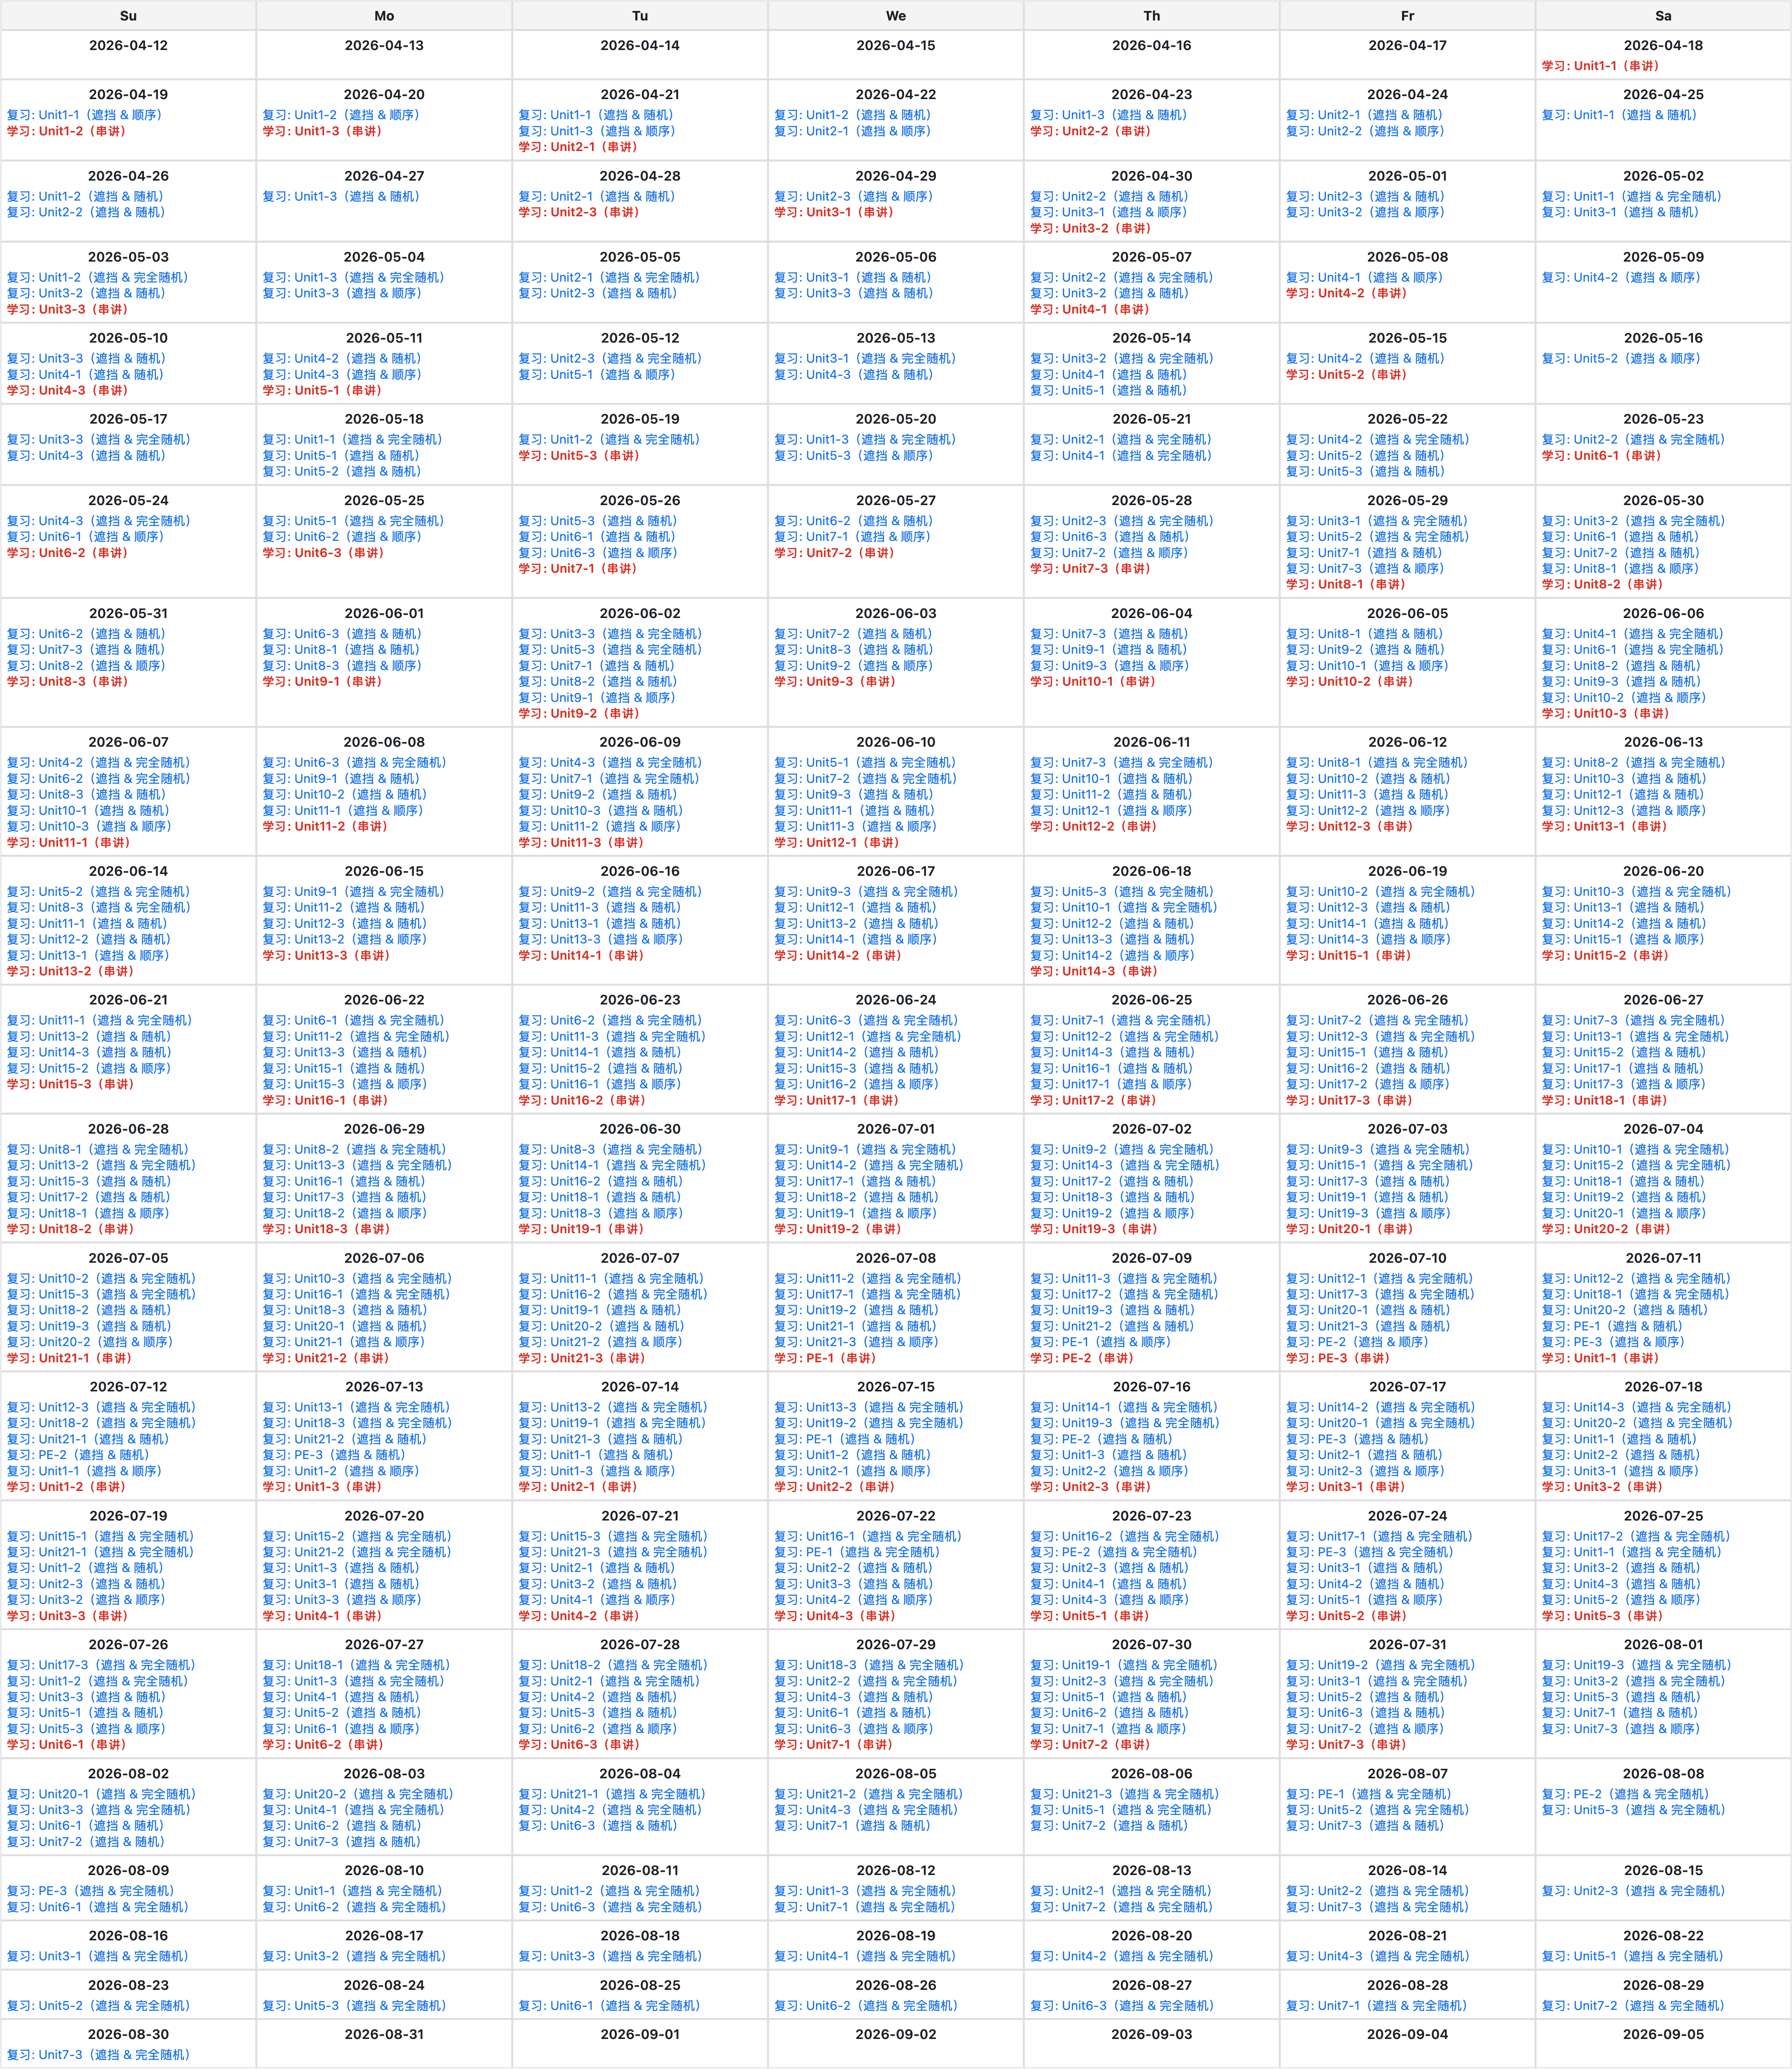
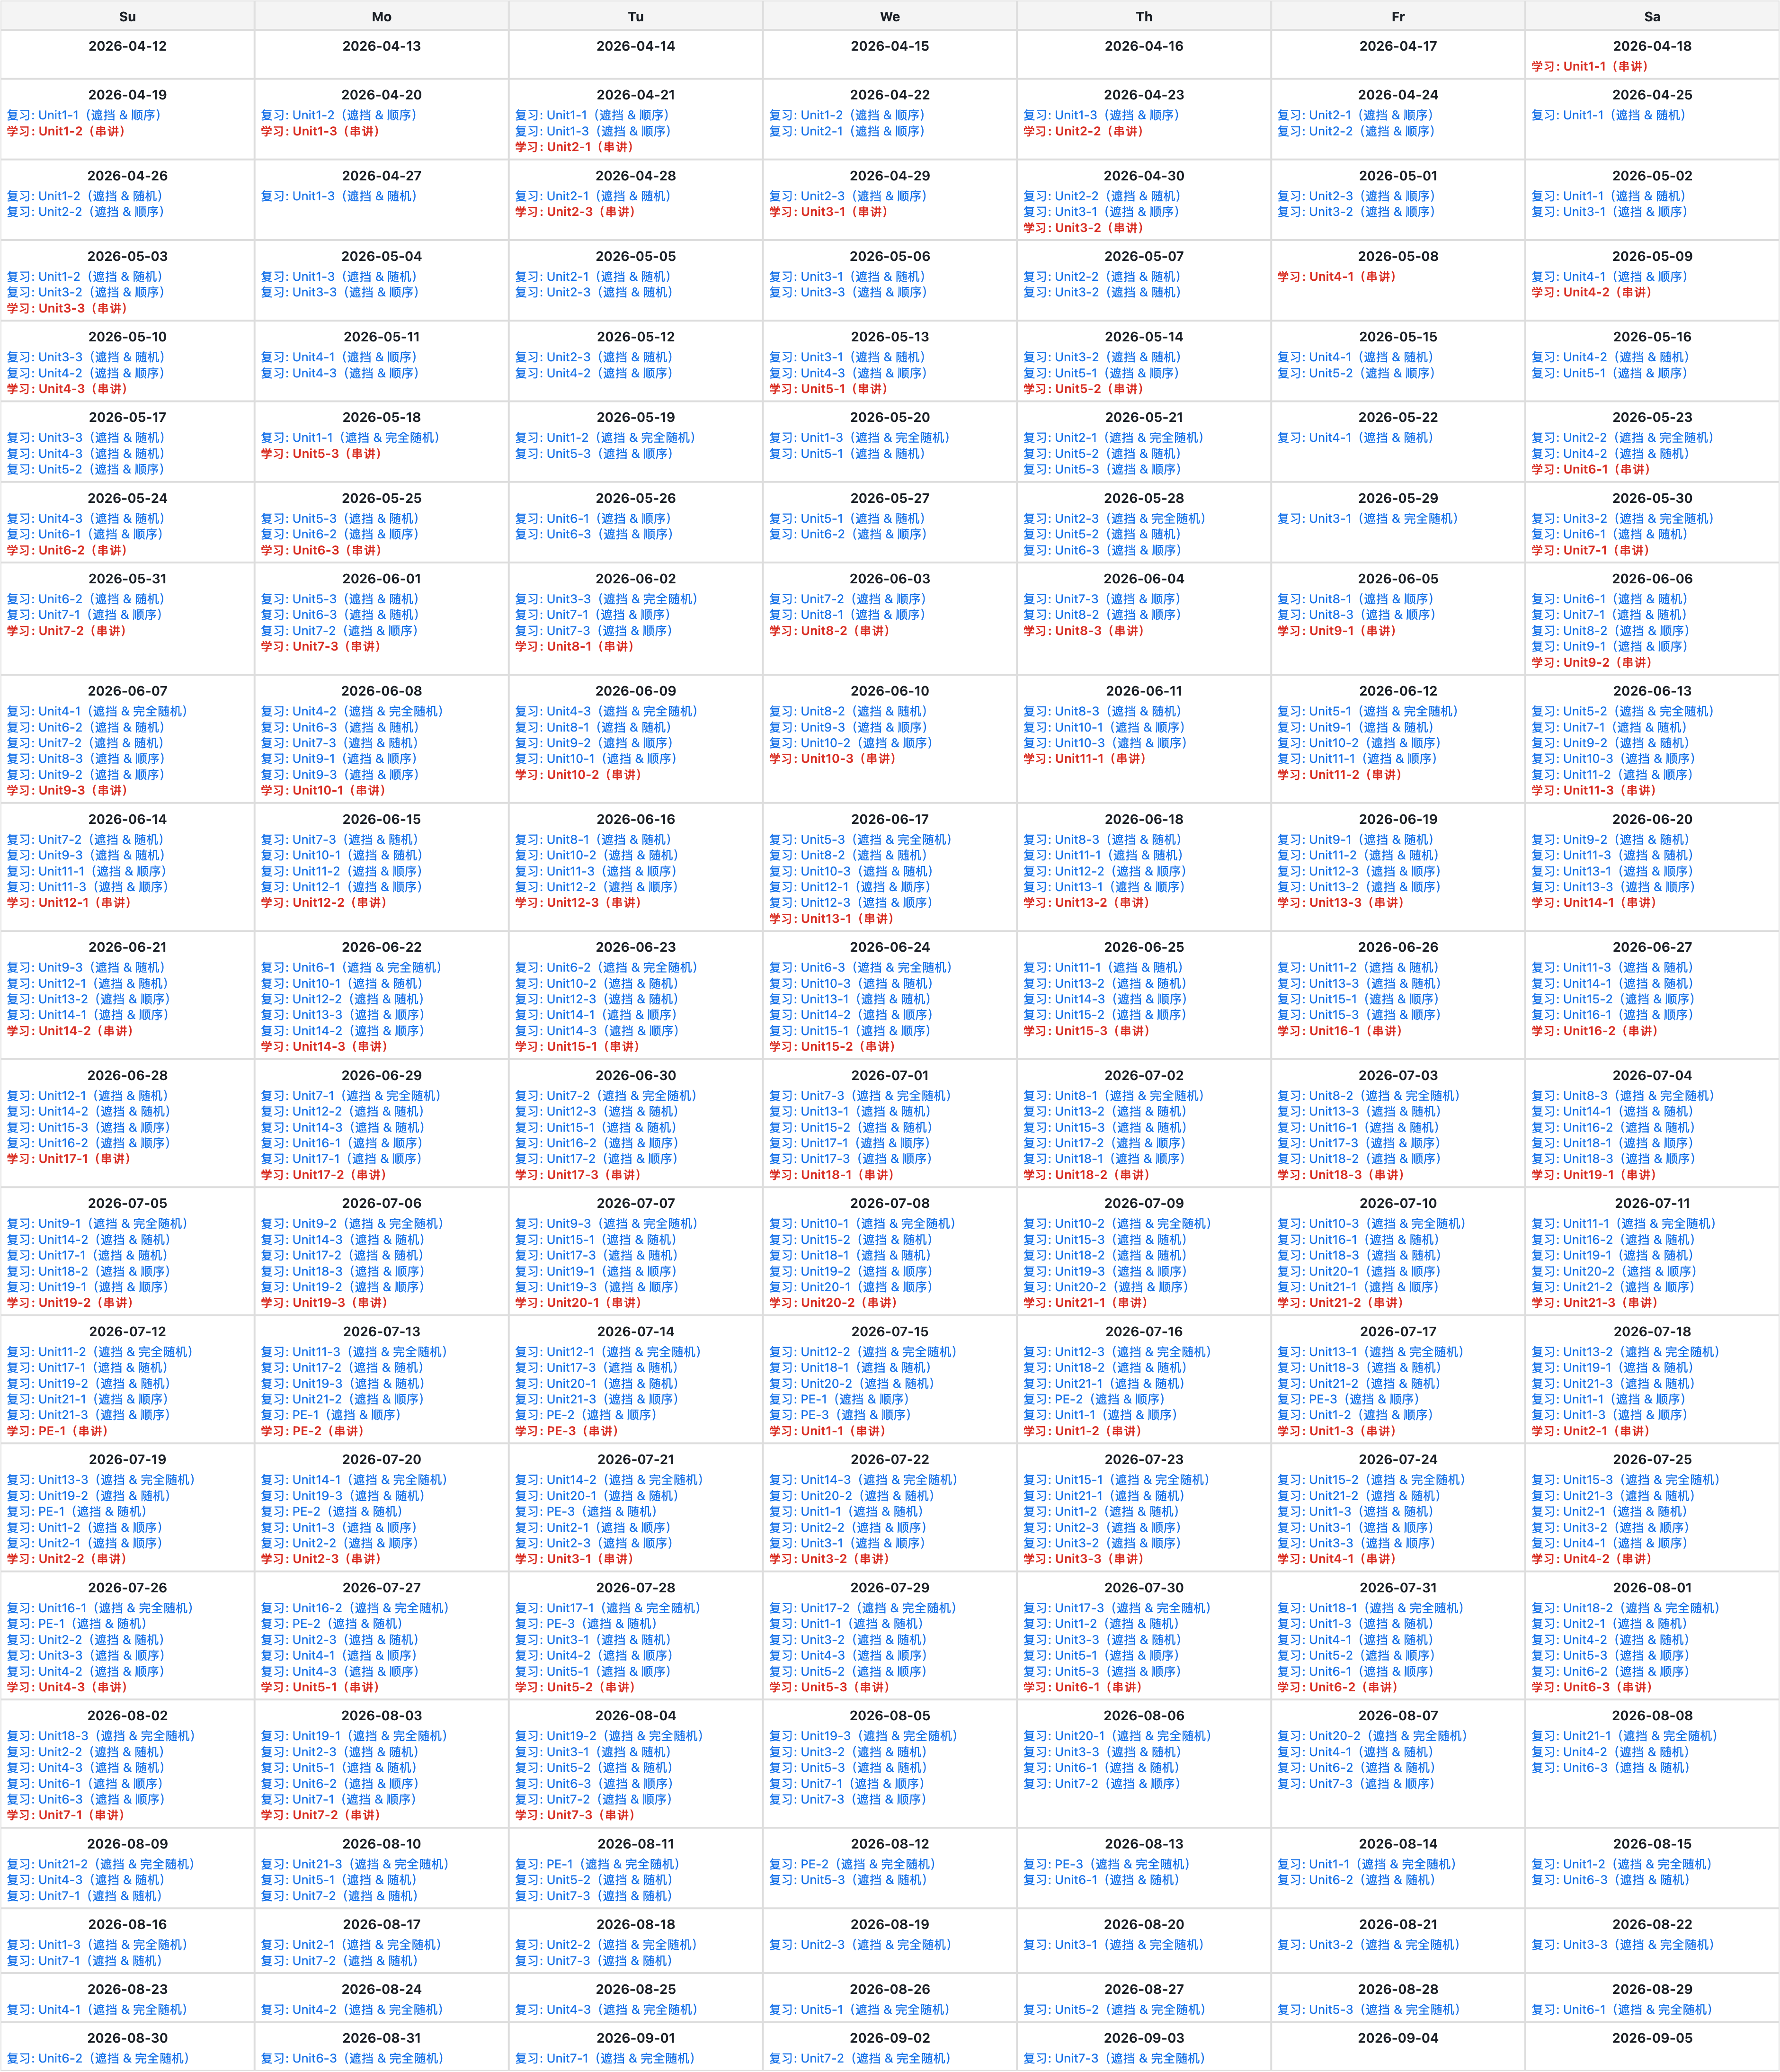
feat: update Unit4-2

diff --git a/utils/html/generate-forgetting-curve-with-task-duration.html b/utils/html/generate-forgetting-curve-with-task-duration.html
@@ -313,12 +313,12 @@
       ],
       rounds: ['串讲',
         {label: '遮挡 & 顺序', duration: 1},
+        {label: '遮挡 & 顺序', duration: 1},
         {label: '遮挡 & 随机', duration: 1},
         {label: '遮挡 & 随机', duration: 1},
-        {label: '遮挡 & 完全随机', duration: 1},
         {label: '遮挡 & 完全随机', duration: 1}
       ],
-      restDays: '2026-04-22,2026-04-24,2026-04-25,2026-04-26,2026-04-27,2026-05-01,2026-05-02,2026-05-04,2026-05-05,2026-05-06,2026-05-09,2026-05-12,2026-05-13,2026-05-14,2026-05-16,2026-05-17,2026-05-18,2026-05-20,2026-05-21,2026-05-22'
+      restDays: '2026-04-22,2026-04-24,2026-04-25,2026-04-26,2026-04-27,2026-05-01,2026-05-02,2026-05-04,2026-05-05,2026-05-06,2026-05-07,2026-05-11,2026-05-12,2026-05-15,2026-05-16,2026-05-17,2026-05-19,2026-05-20,2026-05-21,2026-05-22,2026-05-26,2026-05-27,2026-05-28,2026-05-29'
     },
     write: {
       startDate: '2025-08-12',

diff --git a/math/advanced-mathematics/single_variable_differential_calculus/computation.tex b/math/advanced-mathematics/single_variable_differential_calculus/computation.tex
@@ -273,7 +273,7 @@
                 e^x &= \sum_{n=0}^{\infty} \frac{x^n}{n!} = 1 + x + \frac{x^2}{2!} + \cdots + \frac{x^n}{n!} + \cdots, \quad -\infty < x < +\infty \\
                 \sin x &= \sum_{n=0}^{\infty} (-1)^n \frac{x^{2n+1}}{(2n+1)!} = x - \frac{x^3}{3!} + \frac{x^5}{5!} - \cdots, \quad -\infty < x < +\infty \\
                 \cos x &= \sum_{n=0}^{\infty} (-1)^n \frac{x^{2n}}{(2n)!} = 1 - \frac{x^2}{2!} + \frac{x^4}{4!} - \cdots, \quad -\infty < x < +\infty \\
-                \arctan x &= \sum_{n=0}^{\infty} (-1)^n \frac{x^{2n+1}}{2n+1} = x - \frac{x^3}{3} + \frac{x^5}{5} - \cdots, \quad |x| \le 1
+                \arctan x &= \sum_{n=0}^{\infty} (-1)^n \frac{x^{2n+1}}{2n+1} = x - \frac{x^3}{3} + \frac{x^5}{5} - \cdots, \quad |x| \le 1 \\
                 \frac{1}{1-x} &= \sum_{n=0}^{\infty} x^n = 1 + x + x^2 + \cdots + x^n + \cdots, \quad |x| < 1 \\
                 \frac{1}{1+x} &= \frac{1}{1 - (-x)} = \sum_{n=0}^{\infty} (-1)^n x^n = 1 - x + x^2 - \cdots + (-1)^n x^n + \cdots, \quad |x| < 1 \\
                 \ln(1+x) &= \int \frac{1}{1+x}\,\mathrm{d}x = \sum_{n={\color{red}{1}}}^{\infty} (-1)^{n-1} \frac{x^n}{n} = x - \frac{x^2}{2} + \frac{x^3}{3} - \cdots + (-1)^{n-1} \frac{x^n}{n} + \cdots, \quad |x| < 1 \\

diff --git a/math/advanced-mathematics/book.tex b/math/advanced-mathematics/book.tex
@@ -129,4 +129,5 @@
     \subfile{foundations/inequality}
 
 %    \subfile{mistake-notebook.tex}
+
 \end{document}

diff --git a/english/word/core/Unit4-2.md b/english/word/core/Unit4-2.md
@@ -27,9 +27,9 @@
 - vt. 处于领先地位；过（某种生活）；引导
 - n. 领先地位
 - They wouldn't like a national agency, but self-interest would **lead** them to deal with it.
+    - agency n. 代理机构；（政府）专门机构(CIA)
 - 词组
-    - lead to 导致；通向
-        - C lead to R => C 导致 R
+    - lead to 导致；通向(C lead to R => C 导致 R)
     - lead the way 带路；领路
     - lead up to (把谈话）引向（某个话题）
     - lead a...life 过着...的生活
@@ -55,8 +55,11 @@
 ## share
 
 - v. 与...观点一致；分享；共有
-- n. **股份**；（在若干人之间分得的）一份；（某人拥有或应负担的）一份
-- Except(conj. 除了) in the District of Columbia, non-lawyers may not own any **share** of a law firm.
+- n. 股份；（在若干人之间分得的）一份；（某人拥有或应负担的）一份
+- Except in the District of Columbia, non-lawyers may not own any **share** of a law firm.
+    - except [ɪkˈsept]
+        - prep. 除...之外
+        - conj. 除了...
 - I found, as Hacker observed years before, that most wives want their husbands to be...conversational partners, but few
   husbands **share** this expectation of their wives.
     - share this expectation (of sb.) 有相同的期望（与某人）
@@ -64,35 +67,39 @@
 - stock
     - vt. 存货；贮存（事物，书籍等）
     - n. 股份；储备物；高汤
-    - hold a stock 持股
-    - The average time for *holding a **stock*** in both the United States and Britain, he notes, has dropped from seven
+    - The average time for holding a **stock** in both the United States and Britain, he notes, has dropped from seven
       years to seven months in recent decades.
+        - hold a stock 持股
 
 ## plan
 
 - v. 计划
 - n. 计划
-- plan to do sth.
+- 词组
+    - plan to do sth.
 - project
     - v. 计划；预测；投射
     - n. 项目；课题
     - projection n. 体现；预测；投射
     - projector n. 放映机，幻灯机; 投影仪;
 - scheme [skiːm]
-    - v. 密谋
     - vt. 认为
+    - v. 密谋
     - n. 计划；计谋
     - Even angels have their wicked **schemes** and you take that to new extremes. 即使是天使也有他们邪恶的诡计，而你却把这种诡计推向了新的极端
-- design vt./n. 设计
+- design
+    - vt. 设计
+    - n. 设计
 - program
-    - vt. 计划
+    - vt. 计划；编排，创造
     - n. 计划；程序
-    - One possible response is for classical performers to **program(编排，创造)** attractive new music that is not yet
-      available on record.
+    - One possible response is for classical performers to **program** attractive new music that is not yet available on
+      record.
 
 ## report
 
-- v./n. 报告；报道
+- v. 报告；报道
+- n. 报告；报道
 - journalism [ˈdʒɜːrnəlɪzəm]
     - n. 新闻工作
     - journalistic [ˌdʒɜrnəˈlɪstɪk] adj. 新闻工作（者）的；新闻业的
@@ -100,42 +107,45 @@
     - n. 媒体
 - coverage
     - n. 新闻报道；覆盖范围
-    - ...perhaps the most far-reaching has been the inexorable decline in the scope and seriousness of their **arts
-      coverage(艺术报道)**. 或许影响最深远的，是他们在艺术报道的范围和严肃性方面不可阻挡的衰退
+    - ...perhaps the most far-reaching has been the inexorable decline in the scope and seriousness of their
+      **arts coverage(艺术报道)**. 或许影响最深远的，是他们在艺术报道的范围和严肃性方面不可阻挡的衰退
+        - inexorable adj. 无情的，铁面无私的; 不可动摇的，不屈不挠的; 不能变更的; 不可阻挡的
 - phenomenon [fəˈnɑːmɪnən] n. 现象
 
 ## include
 
 - v. 包括
 - in- 里
-- ex- 外(exit)
+- ex- 外
+    - == exit
 - inclusive adj. 包容性强的；包括的
 - exclude [ɪkˈskluːd]
     - vt. 把...排斥在外；不包括；排除（...的可能性）
     - exclusive
         - adj. 独有的；相互排斥的；高级的
         - n. 独家报道
-        - Exclusive means with **limited access**.
-        - exclusive restaurants 专属餐厅/私密餐厅
-            - The only way you might get reservations at one of the most **exclusive** restaurants in Los Angeles is to
-              become friends with the boss, or become famous.
         - == undivided adj. 未分开的; 全神贯注的; 一心一意的
+        - Exclusive means with **limited access**.
+        - The only way you might get reservations at one of the most **exclusive** restaurants in Los Angeles is to
+          become friends with the boss, or become famous.
+            - exclusive restaurants 专属餐厅/私密餐厅
         - exclusively adv. 排他地；独占地
 
 ## value
 
 - vi. 重视；给...估价
 - n. 价值；益处
-- Faithfulness is especially **valued** in *spouses(['spaʊsɪz] n. 配偶)* and in sports fans.
-- Even if this program didn't reduce poverty, Ferraro says, "**the value of the avoided
-  deforestation([ˌdiːˌfɔːrɪˈsteɪʃn] n. 采伐森林)** just for carbon dioxide emission alone is more than the program
-  costs."
+- Faithfulness is especially **valued** in spouses and in sports fans.
+    - spouse [spaʊs] n. 配偶
+- Even if this program didn't reduce poverty, Ferraro says, "**the value of the avoided deforestation** just for carbon
+  dioxide emission alone is more than the program costs."
+    - deforestation [ˌdiːˌfɔːrɪˈsteɪʃn] n. 采伐森林
 - valuable adj. 很重要的；贵重的
 - overvalue vt. 对...估价过高；过于重视
 - devalue
     - v. 使（货币）贬值
     - vt. 贬低
-    - This way you **devalue** your opinion and show that you are incapable(adj. 无能力的) of managing your own life.
+    - This way you **devalue** your opinion and show that you are *incapable(adj. 无能力的)* of managing your own life.
     - devaluation n. 货币贬值
 
 ## around
@@ -149,8 +159,11 @@
 - With the Spring Festival **approaching/around the corner**
 - surround [səˈraʊnd]
     - vt. 环绕；包围；与...紧密联系
-    - == border 边界；接壤
-    - People in earlier *eras(n. 时代; 年代)* were **surrounded** by reminders of misery.
+    - == border
+        - n. 界线；边境
+        - v. 给...加上边；接近
+    - People in earlier eras were **surrounded** by reminders of misery.
+        - era [ˈɪrə] n. 时代
     - surrounding
         - adj. 周围的；附近的
         - surroundings
@@ -164,7 +177,8 @@
 ## product
 
 - n. 产物；产品
-- I do completely agree that fears are just the **product** of our luxuriant([lʌɡˈʒʊriənt] adj. 茂盛的) imagination.
+- I do completely agree that fears are just the **product** of our luxuriant imagination.
+    - luxuriant [lʌɡˈʒʊriənt] adj. （植物）茂盛的；（头发）浓密的；（风格）华丽的
 - produce
     - vt. 生产；引起；培养；制作
     - producer n. 生产商；制片人
@@ -176,27 +190,28 @@
     - side effect 副作用
 - output
     - n. 产量；产生；输出
-    - == emission
+    - == emission n. 排放物
     - hourly output 每小时的产量
-    - carbon dioxide([daɪˈɑːksaɪd]) output/emission 二氧化碳排放量
+    - carbon *dioxide([daɪˈɑːksaɪd])* output/emission 二氧化碳排放量
 - yield
     - vt. 产生（收益、效益等）；出产（作物）
     - vi. 屈服
     - n. 产量
-    - If she hopes her new-found fortune(n. 大笔的钱) will **yield/produce lasting feeling of fulfillment**, she could
-      <ins>do worse than</ins> read Happy Money by Elizabeth Dunn and Michael Norton.
+    - If she hopes her new-found fortune will **yield/produce lasting feeling of fulfillment**, she could do worse than
+      read Happy Money by Elizabeth Dunn and Michael Norton.
         - do worse than do sth. 最好做某事
+        - fortune  [ˈfɔːrtʃən] n. 大笔的钱（可数）；命运（不可数）
 - reap
     - vt. 取得（成果）；收割（庄稼）
-    - We Reap What We Sow. 种瓜得瓜，种豆得豆；自作自受；因果报应
+    - WE REAP WHAT WE SOW. 种瓜得瓜，种豆得豆；自作自受；因果报应
     - reap the best results 取得最好的结果
     - reap considerable gains 获得可观的收益
-        - considerate vs considerable
-            - considerate
+        - considerable
+            - adj. 相当大/多的
+            - Similar: considerate
                 - adj. 考虑周到的; 体贴的
                 - == kind
                 - It is so considerate of you
-            - considerable adj. 相当大/多的
 
 ## Words
 